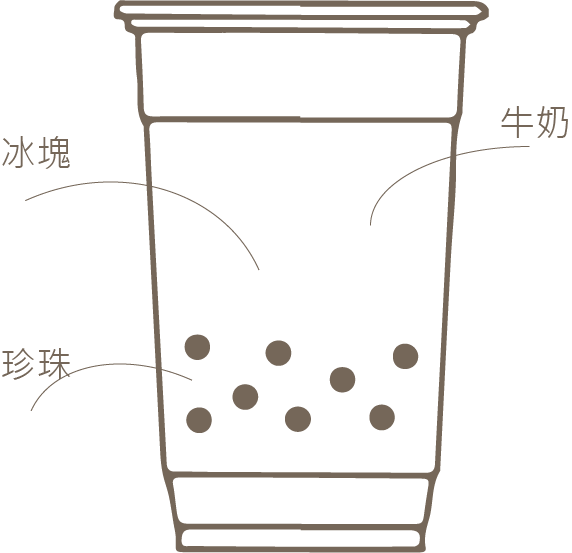
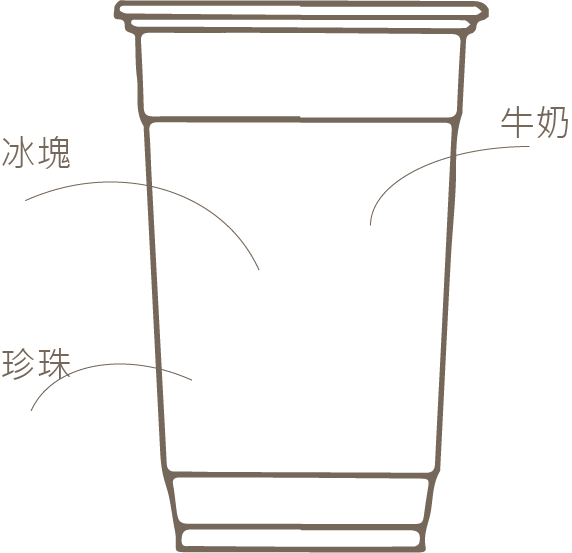
嚴選食材珍珠更新

diff --git a/third45.html b/third45.html
@@ -14,9 +14,13 @@
     <div id="section_4" class="bg_4">
         <div class="section_4">
             <div class="title_41">50嵐嚴選</div>
-            <div class="img_4">
+            <div class="img_41">
                 <img src="/imgs/嚴選食材.png" alt="嚴選食材">
+                <div class="img_42">
+                    <img src="/imgs/珍珠.gif" alt="珍珠">
+                </div>
             </div>
+
             <a href="#section_4" class="title_42">嚴選食材</a>
             <a href="http://twap.sgs.com/sgssip/VIP_zone.aspx?cstno=VG1uS3VSQitJOXQ4N0VJZGtzZndXUT09#bg" target="_blank"
                 class="title_43">衛生檢驗</a>

diff --git a/style.css b/style.css
@@ -17,13 +17,24 @@ body{
     position: relative; 
 }
 
-.img_4{
+.img_41{
     padding: 10% 20%;
+    position: relative; 
 }
 
-.img_4 img{
+.img_41 img{
     width: 50%;
 }
+
+.img_42{
+    max-width: 20%;
+    height: auto;
+    position: absolute;
+    left: 31%;
+    top: 42%;
+}
+
+
 
 .title_41{
     color: #756759;
